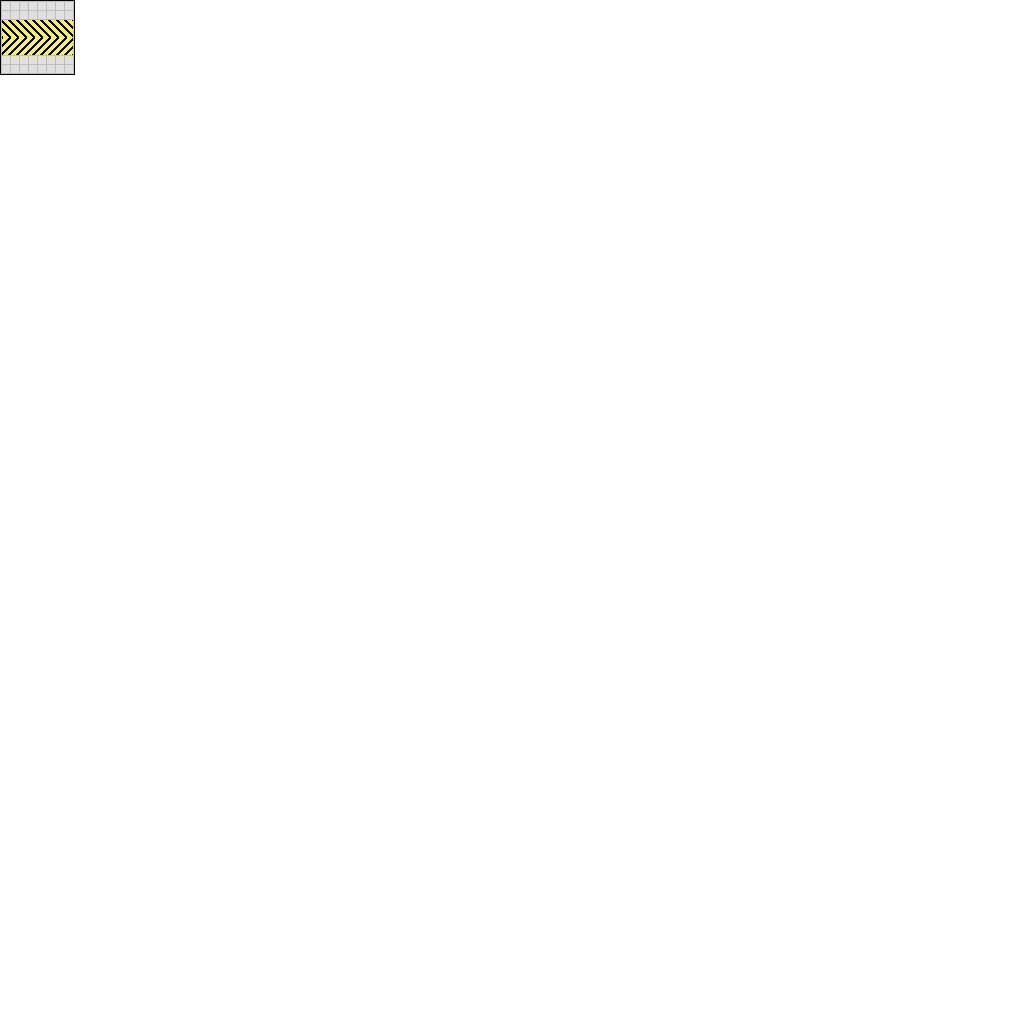
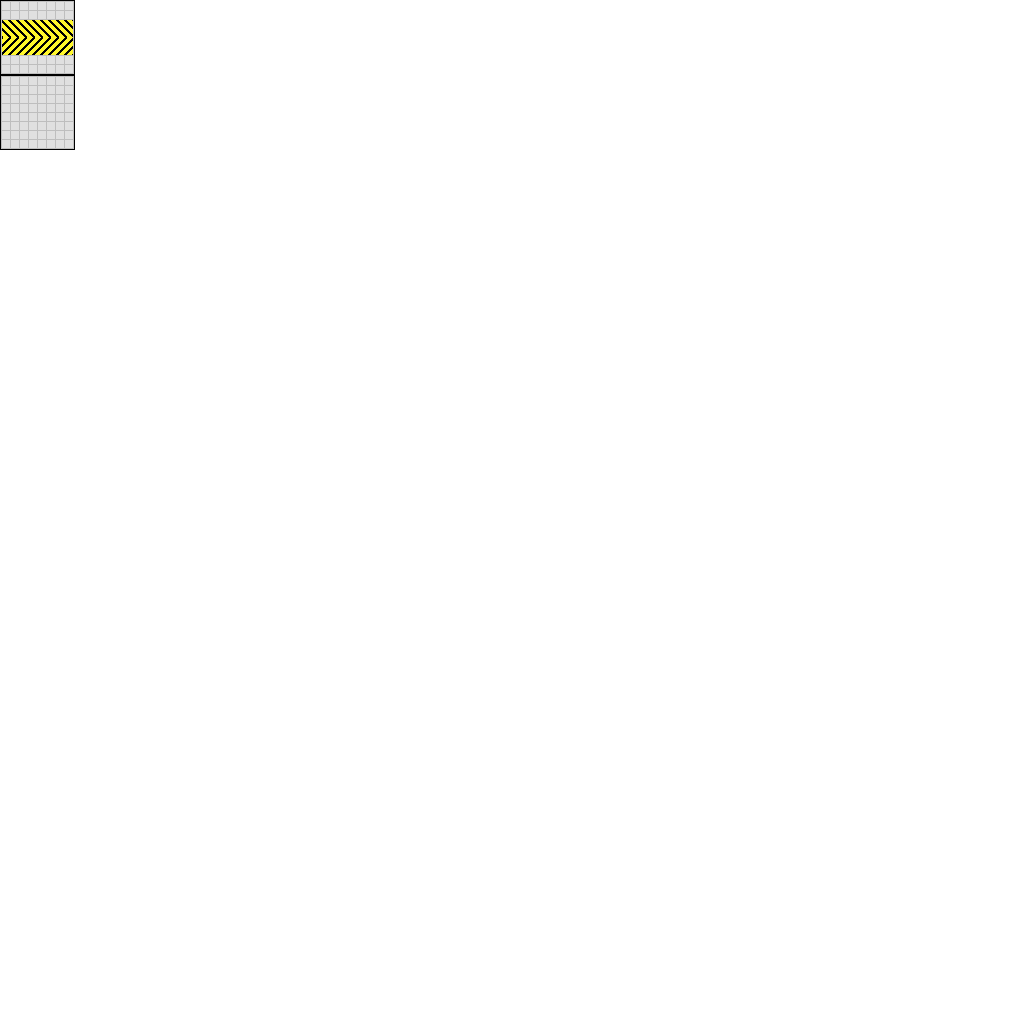
Add reading from sheet

Changed region(s): [[0.0, 0.0625, 0.0938, 0.1562]]

diff --git a/Assets/Scripts/SheetFuncs.cs b/Assets/Scripts/SheetFuncs.cs
@@ -1,4 +1,5 @@
 using UnityEngine;
+using System.IO;
 using System.Collections.Generic;
 
 using TypeInfo;
@@ -6,10 +7,89 @@ using TypeInfo;
 public static class SheetFuncs
 {
 	public static List<Mat> materials = new List<Mat>();
+	public const int pxWidth = 1024;
 	
 	public struct Mat
 	{
 		public Type type;
 		public Material material;
+	}
+
+	public static Mat Find(Type type)
+	{
+		for (int i = 0; i < materials.Count; i++)
+		{
+			if (materials[i].type == type) { return materials[i]; }
+		}
+		Logging.Error("Could not find material with type " + type);
+		return default(Mat);
+	}
+
+	public static void LoadSheets()
+	{
+		if (!Directory.Exists(Globals.persistentPath+"postal_base/Sheets"))
+		{
+			Directory.CreateDirectory(Globals.persistentPath+"postal_base/Sheets");
+		}
+
+		string path = Globals.assetPath + "postal_base/Sheets/";
+		string[] sheetFiles = Directory.GetFiles(path, "*png");
+		for (int i = 0; i < sheetFiles.Length; i++)
+		{
+			string sheetName = sheetFiles[i];
+			WWW www = new WWW("file://" + sheetName);
+
+			Texture newTex = www.texture;
+			newTex.filterMode = FilterMode.Trilinear;
+
+			Material newMat = new Material(Shader.Find("Custom/Texture_Alpha"));
+			newMat.mainTexture = newTex;
+
+			Mat mat;
+			mat.type = Utility.FileToName(sheetName);
+			mat.material = newMat;
+			materials.Add(mat);
+			Logging.Log("Added sprint sheet: \"" + mat.type + "\"");
+		}
+	}
+
+	public static Vector2[] newUVs = new Vector2[4];
+	public static void SetTexture(int x, int y, int width, int height, MeshFilter filter)
+	{
+		/* Unity Quad Lables
+		 * 3 -- 1
+		 * |	|
+		 * 0 -- 2
+		 */
+
+		float cut = 0.00005f;
+
+		float origin_x = (float)x * width;
+		float origin_y = pxWidth - ((float)y + 1) * height;
+
+		newUVs[0].x = origin_x / pxWidth;
+		newUVs[0].y = origin_y / pxWidth;
+
+		newUVs[1].x = (origin_x + width) / pxWidth;
+		newUVs[1].y = (origin_y + height) / pxWidth;
+
+		newUVs[2].x = (origin_x + width) / pxWidth;
+		newUVs[2].y = origin_y / pxWidth;
+
+		newUVs[3].x = origin_x / pxWidth;
+		newUVs[3].y = (origin_y + height) / pxWidth;
+
+		//This fixes that texture overlapping problem. It cuts a tiny tiny amount of the all of the edges of the texture.
+		newUVs[0].x += cut;
+		newUVs[0].y += cut;
+		newUVs[1].x -= cut;
+		newUVs[1].y -= cut;
+		newUVs[2].x -= cut;
+		newUVs[2].y += cut;
+		newUVs[3].x += cut;
+		newUVs[3].y -= cut;
+
+		Mesh mesh = filter.mesh;
+		mesh.uv = newUVs;
 	}
 }

diff --git a/Assets/Scripts/Obj.cs b/Assets/Scripts/Obj.cs
@@ -15,40 +15,17 @@ public class Obj : MonoBehaviour
 		public Type type;
 		public float height;
 		public GridLayer layer;
+		public List<Anim.Animation> animations;
 
 		public static void Init()
 		{
-			Prototype p;
-			SheetFuncs.Mat mat;
-
-			p.type = Builtins.Tile;
-			p.height = 0f;
-			p.layer = GridLayer.Base;
-			prototypes.Add(p);
-			mat.type = Builtins.Tile;
-			mat.material = Globals.go.materials[0];
-			SheetFuncs.materials.Add(mat);
-			
-			p.type = Builtins.Conveyor;
-			p.height = 0.1f;
-			p.layer = GridLayer.Conveyor;
-			prototypes.Add(p);
-			mat.type = Builtins.Conveyor;
-			mat.material = Globals.go.materials[2];
-			SheetFuncs.materials.Add(mat);
-
-			p.type = Builtins.Parcel;
-			p.height = 0.2f;
-			p.layer = GridLayer.Top;
-			prototypes.Add(p);
-			mat.type = Builtins.Parcel;
-			mat.material = Globals.go.materials[3];
-			SheetFuncs.materials.Add(mat);
+			prototypes.Add(Prototypes.Tile());
+			prototypes.Add(Prototypes.Conveyor());
+			prototypes.Add(Prototypes.Parcel());
 		}
 	}
 
 	public GameObject puppet;
-	public MeshRenderer meshRenderer;
 	public GameObject label;
 	public TextMesh labelMesh;
 
@@ -56,6 +33,7 @@ public class Obj : MonoBehaviour
 	public Type type;
 	public float height;
 	public GridLayer layer;
+	public Anim animator;
 	/* Individual fields */
 	public Facing facing = Facing.Right;
 	public Grid grid;
@@ -89,9 +67,10 @@ public class Obj : MonoBehaviour
 		height = -p.height;
 		layer = p.layer;
 
-		MatchFacing();
+		animator.animations = p.animations;
 
-		for (int i = 0; i < SheetFuncs.materials.Count; i++) { if (SheetFuncs.materials[i].type == type) { meshRenderer.material = SheetFuncs.materials[i].material; } }
+		animator.StartAnimation(animator.animations[0]);
+		MatchFacing();
 
 		transform.localPosition = new Vector3(x, y, height);
 		grid.cells[x, y, layer] = id;

diff --git a/Assets/Scripts/Prototypes.cs b/Assets/Scripts/Prototypes.cs
@@ -1,0 +1,76 @@
+using System.Collections.Generic;
+
+using TypeInfo;
+using Enums;
+using Structs;
+
+public static class Prototypes
+{
+	public static Obj.Prototype Tile()
+	{
+		Obj.Prototype p;
+
+		p.type = Builtins.Tile;
+		p.height = 0f;
+		p.layer = GridLayer.Base;
+		p.animations = new List<Anim.Animation>();
+		Anim.Animation anim = new Anim.Animation();
+		anim.type = Builtins.Stand;
+		anim.mat = SheetFuncs.Find(Builtins.sheet);
+		anim.frames = new List<Anim.Frame>();
+		Anim.Frame f;
+		f.x = 0;
+		f.y = 1;
+		f.width = 75;
+		f.height = 75;
+		f.time = -1;
+		anim.frames.Add(f);
+		p.animations.Add(anim);
+		return p;
+	}
+
+	public static Obj.Prototype Conveyor()
+	{
+		Obj.Prototype p;
+
+		p.type = Builtins.Conveyor;
+		p.height = 0.1f;
+		p.layer = GridLayer.Conveyor;
+		p.animations = new List<Anim.Animation>();
+		Anim.Animation anim = new Anim.Animation();
+		anim.type = Builtins.Stand;
+		anim.mat = SheetFuncs.Find(Builtins.sheet);
+		anim.frames = new List<Anim.Frame>();
+		Anim.Frame f;
+		f.x = 0;
+		f.y = 0;
+		f.width = 75;
+		f.height = 75;
+		f.time = -1;
+		anim.frames.Add(f);
+		p.animations.Add(anim);
+		return p;
+	}
+
+	public static Obj.Prototype Parcel()
+	{
+		Obj.Prototype p;
+		p.type = Builtins.Parcel;
+		p.height = 0.2f;
+		p.layer = GridLayer.Top;
+		p.animations = new List<Anim.Animation>();
+		Anim.Animation anim = new Anim.Animation();
+		anim.type = Builtins.Stand;
+		anim.mat = SheetFuncs.Find(Builtins.sheet);
+		anim.frames = new List<Anim.Frame>();
+		Anim.Frame f;
+		f.x = 0;
+		f.y = 1;
+		f.width = 75;
+		f.height = 75;
+		f.time = -1;
+		anim.frames.Add(f);
+		p.animations.Add(anim);
+		return p;
+	}
+}

diff --git a/Assets/Scripts/Anim.cs b/Assets/Scripts/Anim.cs
@@ -1,0 +1,51 @@
+using UnityEngine;
+using System.Collections.Generic;
+
+using TypeInfo;
+
+public class Anim : MonoBehaviour
+{
+	public int currentFrame = 0;
+	public float time = 0;
+	public Animation currentAnimation = null;
+	public SheetFuncs.Mat currentMaterial = default(SheetFuncs.Mat);
+
+	public GameObject puppet;
+	public MeshFilter filter;
+	public MeshRenderer meshRenderer;
+
+	public List<Animation> animations = null;
+
+	public void Init()
+	{
+
+	}
+
+	public void StartAnimation(Animation anim)
+	{
+		if (anim.mat.type != currentMaterial.type) { meshRenderer.material = anim.mat.material; }
+		currentAnimation = anim;
+		currentMaterial = anim.mat;
+
+		currentFrame = 0;
+		time = Timer.time;
+		Frame frame = currentAnimation.frames[0];
+		SheetFuncs.SetTexture(frame.x, frame.y, frame.width, frame.height, filter);
+	}
+
+	public class Animation
+	{
+		public Type type;
+		public List<Frame> frames;
+		public SheetFuncs.Mat mat;
+	}
+	
+	public struct Frame
+	{
+		public int x;
+		public int y;
+		public int width;
+		public int height;
+		public float time;
+	}
+}

diff --git a/Assets/Scripts/Type.cs b/Assets/Scripts/Type.cs
@@ -8,7 +8,9 @@ namespace TypeInfo
 		Uninitialized,
 		Tile,
 		Conveyor,
-		Parcel
+		Parcel,
+		Stand,
+		sheet
 	}
 
 	#pragma warning disable 0660
@@ -98,14 +100,14 @@ namespace TypeInfo
 			try
 			{
 				Builtins type = (Builtins) Enum.Parse(typeof(Builtins), text);
-				Logging.Log("Added already existing enum " + text + " with id " + (int) type);
+				Logging.Log("Added already existing enum \"" + text + "\" with id " + (int) type);
 				return (int) type;
 			}
 			catch (ArgumentException)
 			{
 				if (strToInt.ContainsKey(text))
 				{
-					Logging.Log("Adding already existing string " + text + " with id " + strToInt[text]);
+					Logging.Log("Adding already existing string \"" + text + "\" with id " + strToInt[text]);
 					return strToInt[text];
 				}
 				else
@@ -113,7 +115,7 @@ namespace TypeInfo
 					int id = intToStr.Count;
 					intToStr.Add(text);
 					strToInt.Add(text, id);
-					Logging.Log("Added string " + text + " with id " + id);
+					Logging.Log("Added string \"" + text + "\" with id " + id);
 					return id;
 				}
 			}

diff --git a/Assets/Scripts/Globals.cs b/Assets/Scripts/Globals.cs
@@ -12,8 +12,17 @@ public class Globals : MonoBehaviour
 	public static float paused = 0;
 	public static Logging.Level debug = Logging.Level.LOG | Logging.Level.WARN | Logging.Level.ERROR;
 
+	public static string assetPath = null;
+	public static string persistentPath = null;
+
 	public void Awake()
 	{
 		go = this;
+	}
+
+	public static void Init()
+	{
+		assetPath = Application.dataPath + "/StreamingAssets/";
+		persistentPath = Application.persistentDataPath + "/";
 	}
 }

diff --git a/Assets/Scripts/Utility.cs b/Assets/Scripts/Utility.cs
@@ -1,0 +1,11 @@
+public static class Utility
+{
+	public static string FileToName(string path)
+	{
+		int slashIndex = path.LastIndexOf('/');
+		int dotIndex = path.LastIndexOf('.');
+		if (dotIndex == -1 || slashIndex == -1 || slashIndex > dotIndex) { return path; }
+
+		return path.Substring(slashIndex + 1, dotIndex - (slashIndex + 1));
+	}
+}

diff --git a/Assets/Scripts/Main.cs b/Assets/Scripts/Main.cs
@@ -1,11 +1,18 @@
 using UnityEngine;
 using System.Collections;
 
+using TypeInfo;
+
 public class Main : MonoBehaviour
 {
 	void Start ()
 	{
+		Type.Init();
+		Globals.Init();
+		SheetFuncs.LoadSheets();
+
 		Obj.Prototype.Init();
+
 		for (int i = 0; i < Grid.grids.Count; i++) { Grid.grids[i].Init(); }
 	}
 	
